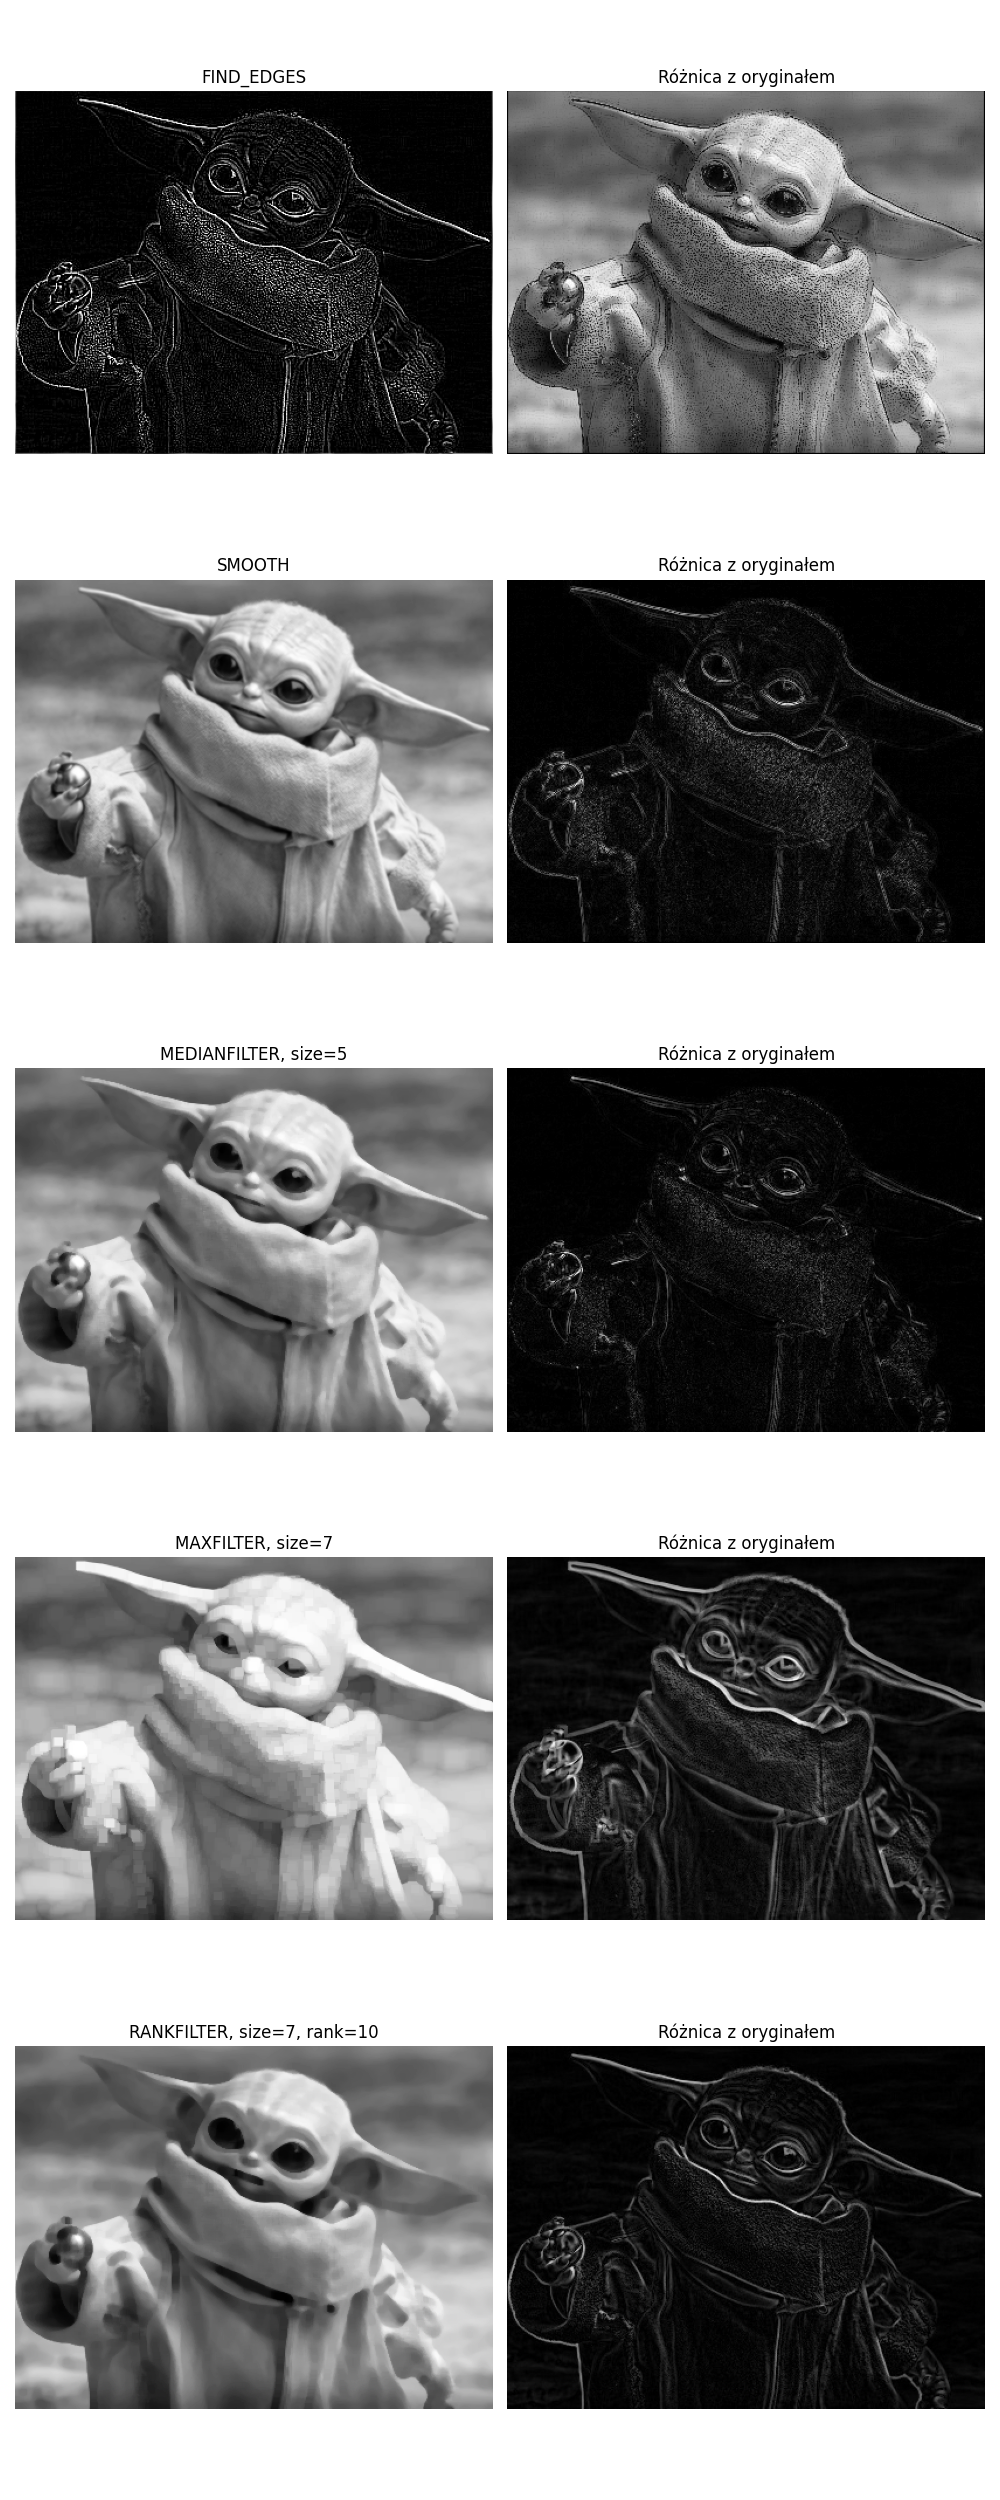
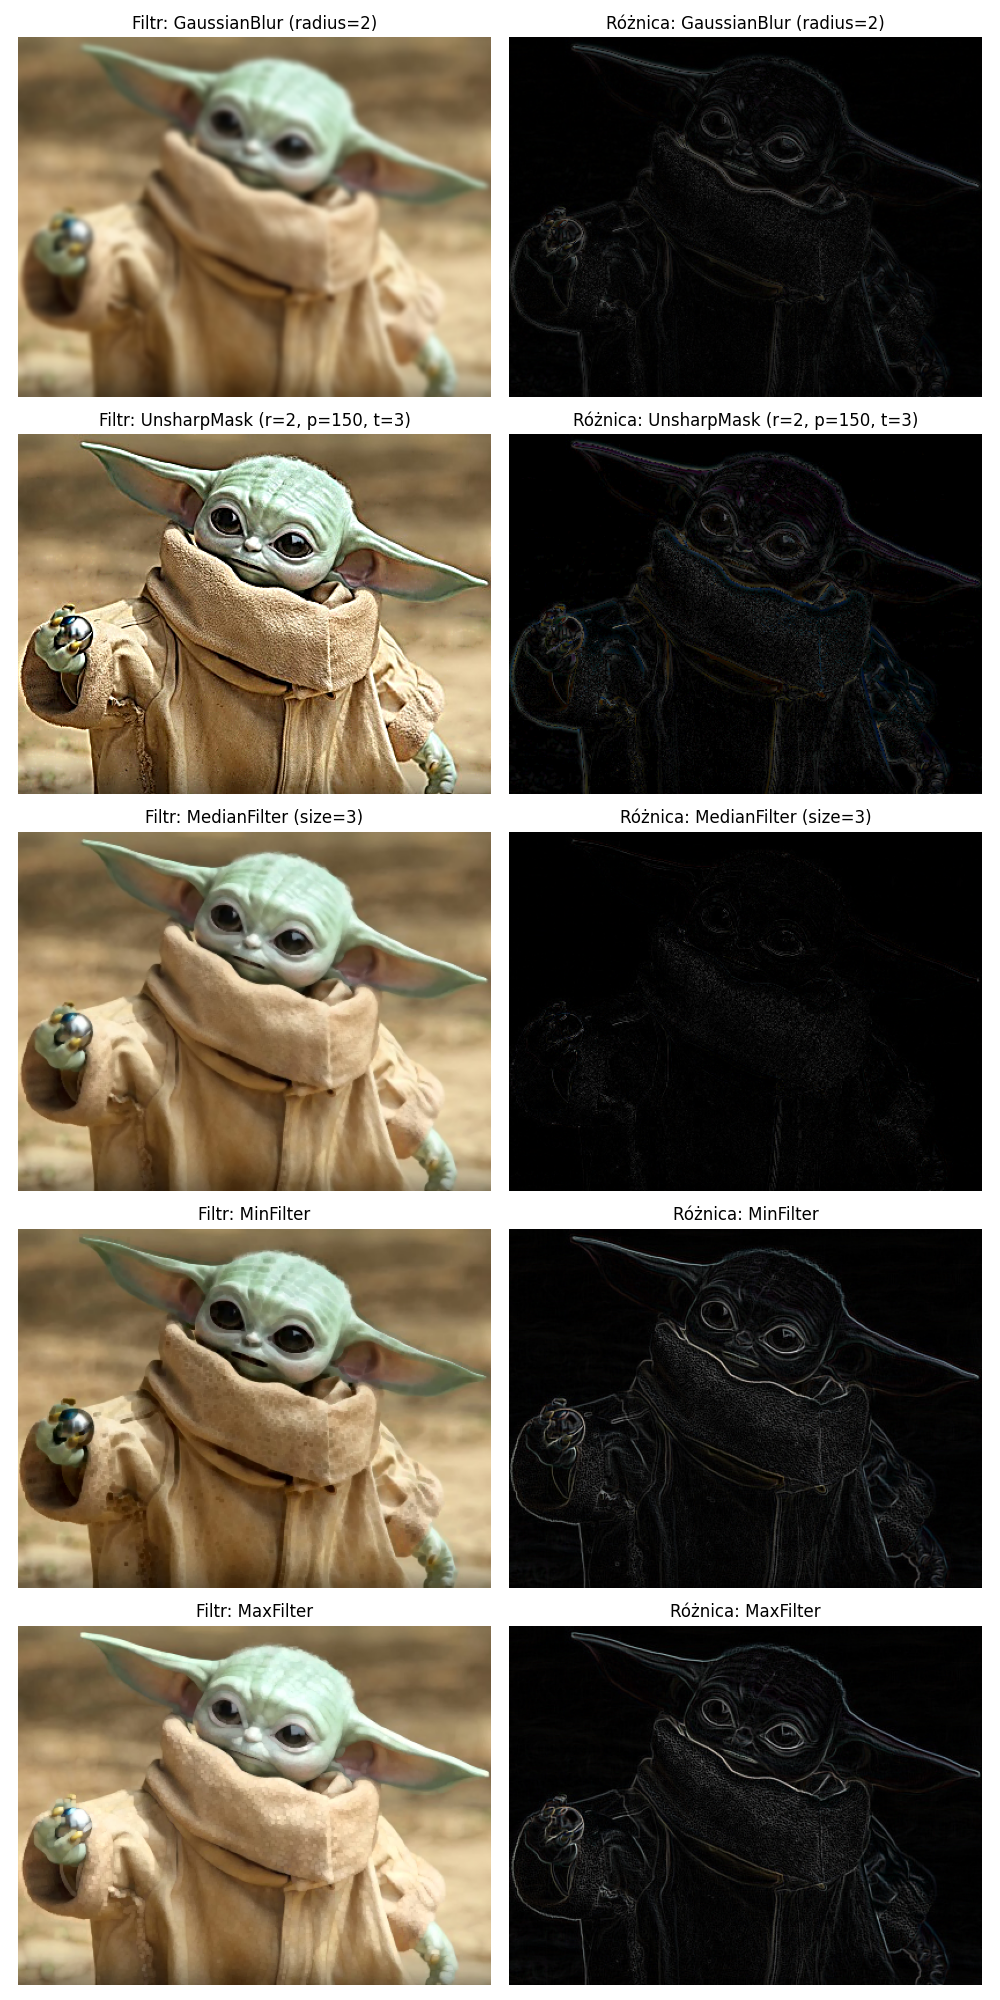
Lab 8 - Ex 4

diff --git a/Lab8/Lab8_1.py b/Lab8/Lab8_1.py
@@ -139,3 +139,28 @@ for i, (filt, name) in enumerate(zip(filters, filter_names)):
 plt.tight_layout()
 plt.savefig("fig3.png")
 
+# Zadanie 5
+filters_with_params = [
+    (ImageFilter.GaussianBlur(radius=2), "GaussianBlur (radius=2)"),
+    (ImageFilter.UnsharpMask(radius=2, percent=150, threshold=3), "UnsharpMask (r=2, p=150, t=3)"),
+    (ImageFilter.MedianFilter(size=3), "MedianFilter (size=3)"),
+    (ImageFilter.MinFilter(), "MinFilter"),
+    (ImageFilter.MaxFilter(), "MaxFilter"),
+]
+
+fig, axs = plt.subplots(len(filters_with_params), 2, figsize=(10, 20))
+
+for i, (filt, name) in enumerate(filters_with_params):
+    filtered_img = obraz.filter(filt)
+    diff_img = ImageChops.difference(obraz, filtered_img)
+
+    axs[i, 0].imshow(filtered_img, cmap="gray")
+    axs[i, 0].set_title(f"Filtr: {name}")
+    axs[i, 0].axis("off")
+
+    axs[i, 1].imshow(diff_img, cmap="gray")
+    axs[i, 1].set_title(f"Różnica: {name}")
+    axs[i, 1].axis("off")
+
+plt.tight_layout()
+plt.savefig("fig4.png")
